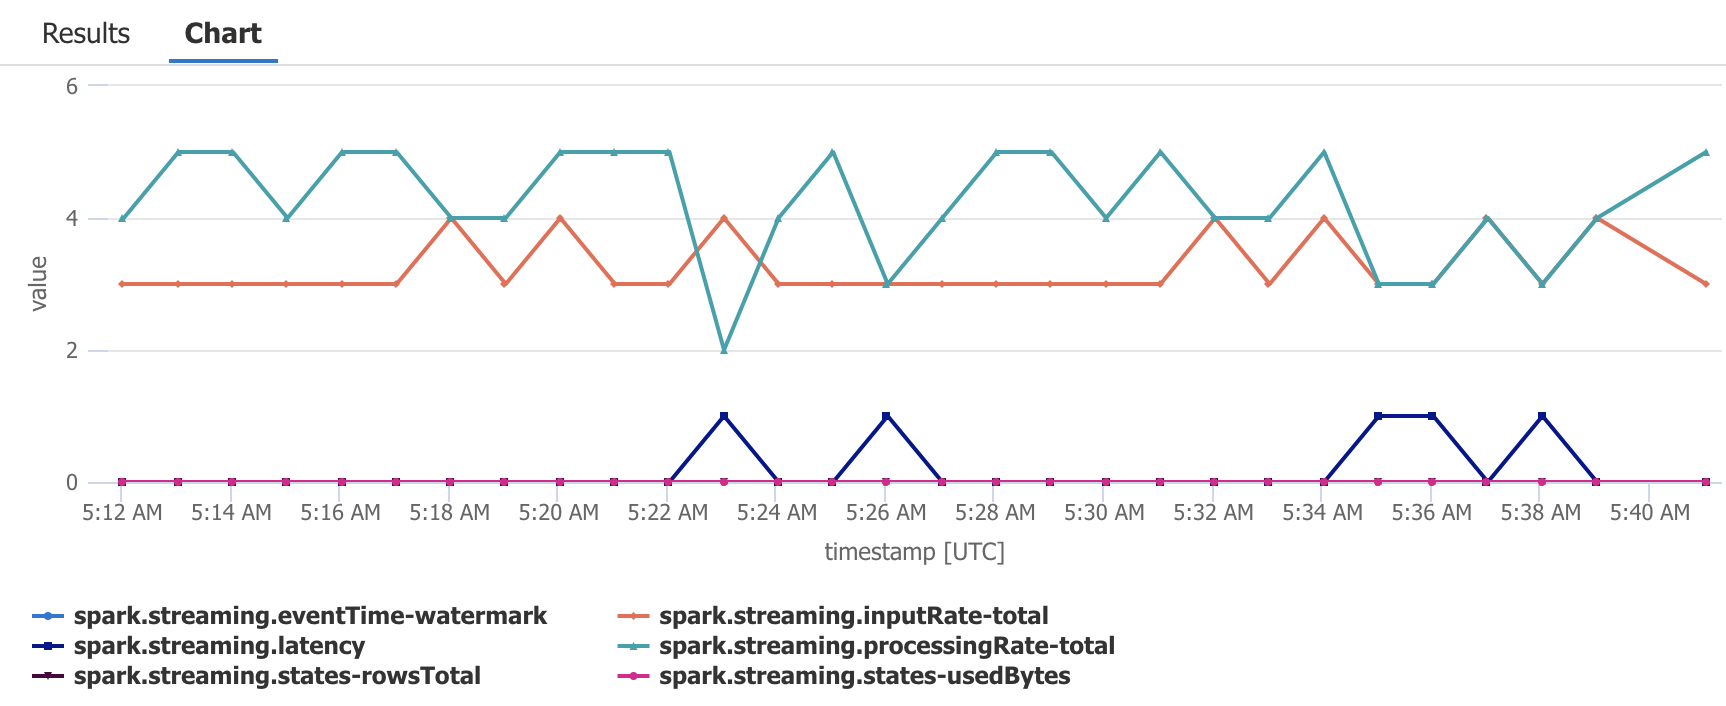
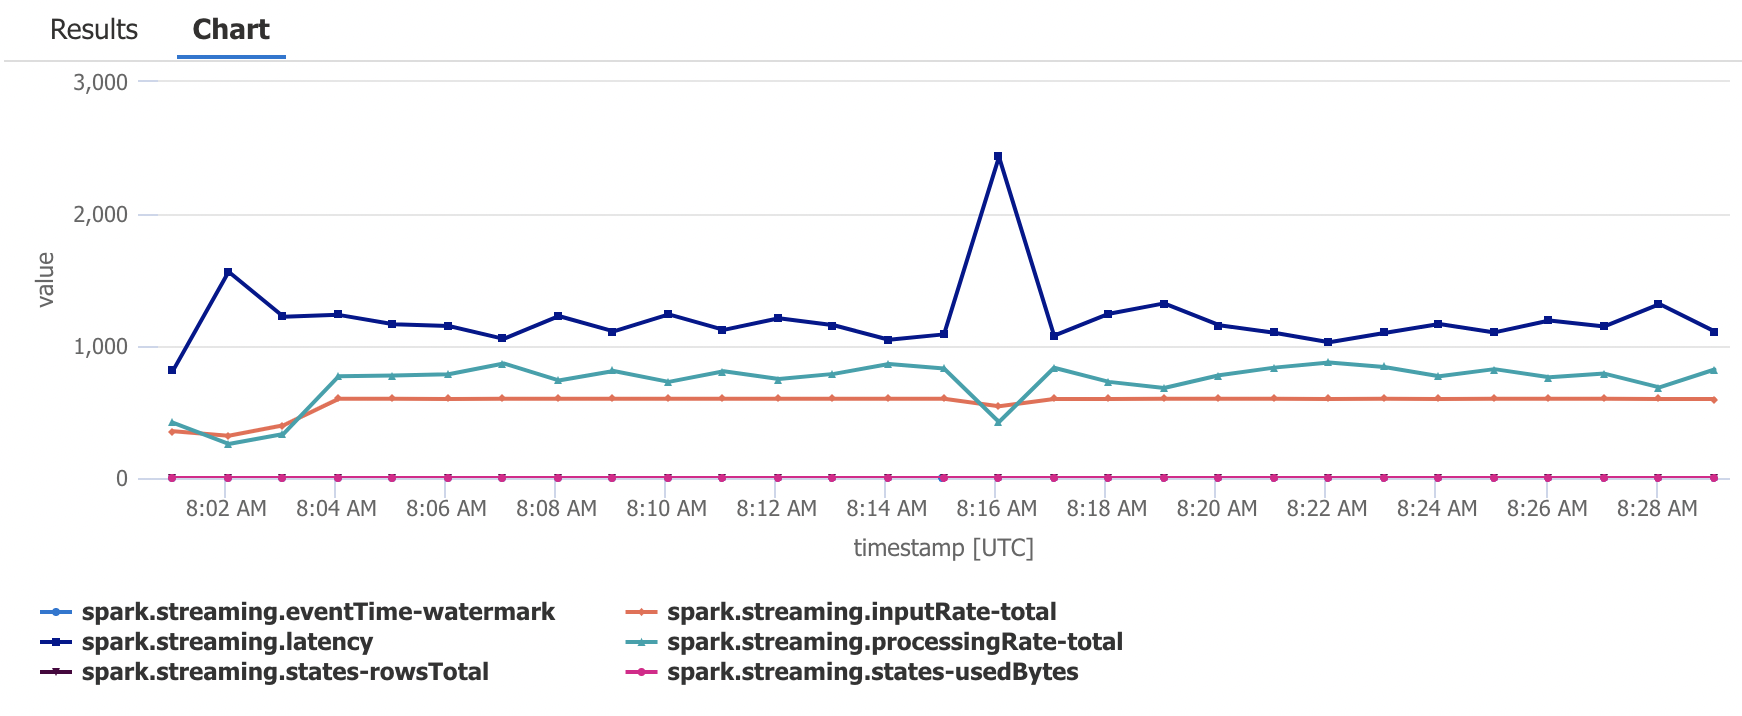
.

diff --git a/modules/databricks/notebook-job/sample-streaming-notebook.py b/modules/databricks/notebook-job/sample-streaming-notebook.py
@@ -1,0 +1,10 @@
+# Databricks notebook source
+# Dummy streaming job that never ends
+(spark
+    .readStream
+    .format("rate")
+    .option("rowsPerSecond", 100)
+    .load()
+    .writeStream
+    .foreach(lambda row : None)
+    .start())

diff --git a/README.md b/README.md
@@ -32,7 +32,7 @@ terraform init
 terraform apply
 ```
 
-⚠ This sets up a cluster of two nodes, and a recurring job every minute, so that the cluster never automatically shuts down. This will incur high costs if you forget to tear down the resources!
+⚠ This sets up a cluster of two nodes, and a continous streaming job as well as a recurring job running every minute, so that the cluster never automatically shuts down. **This will incur high costs if you forget to tear down the resources!**
 
 ## Destroying the solution
 
@@ -97,7 +97,6 @@ customMetrics
 ```kql
 customMetrics
 | where name startswith 'spark.streaming.'
-| extend value = iff(name=='spark.streaming.latency', toint(value)/1000, toint(value))
 | render timechart
 ```
 
